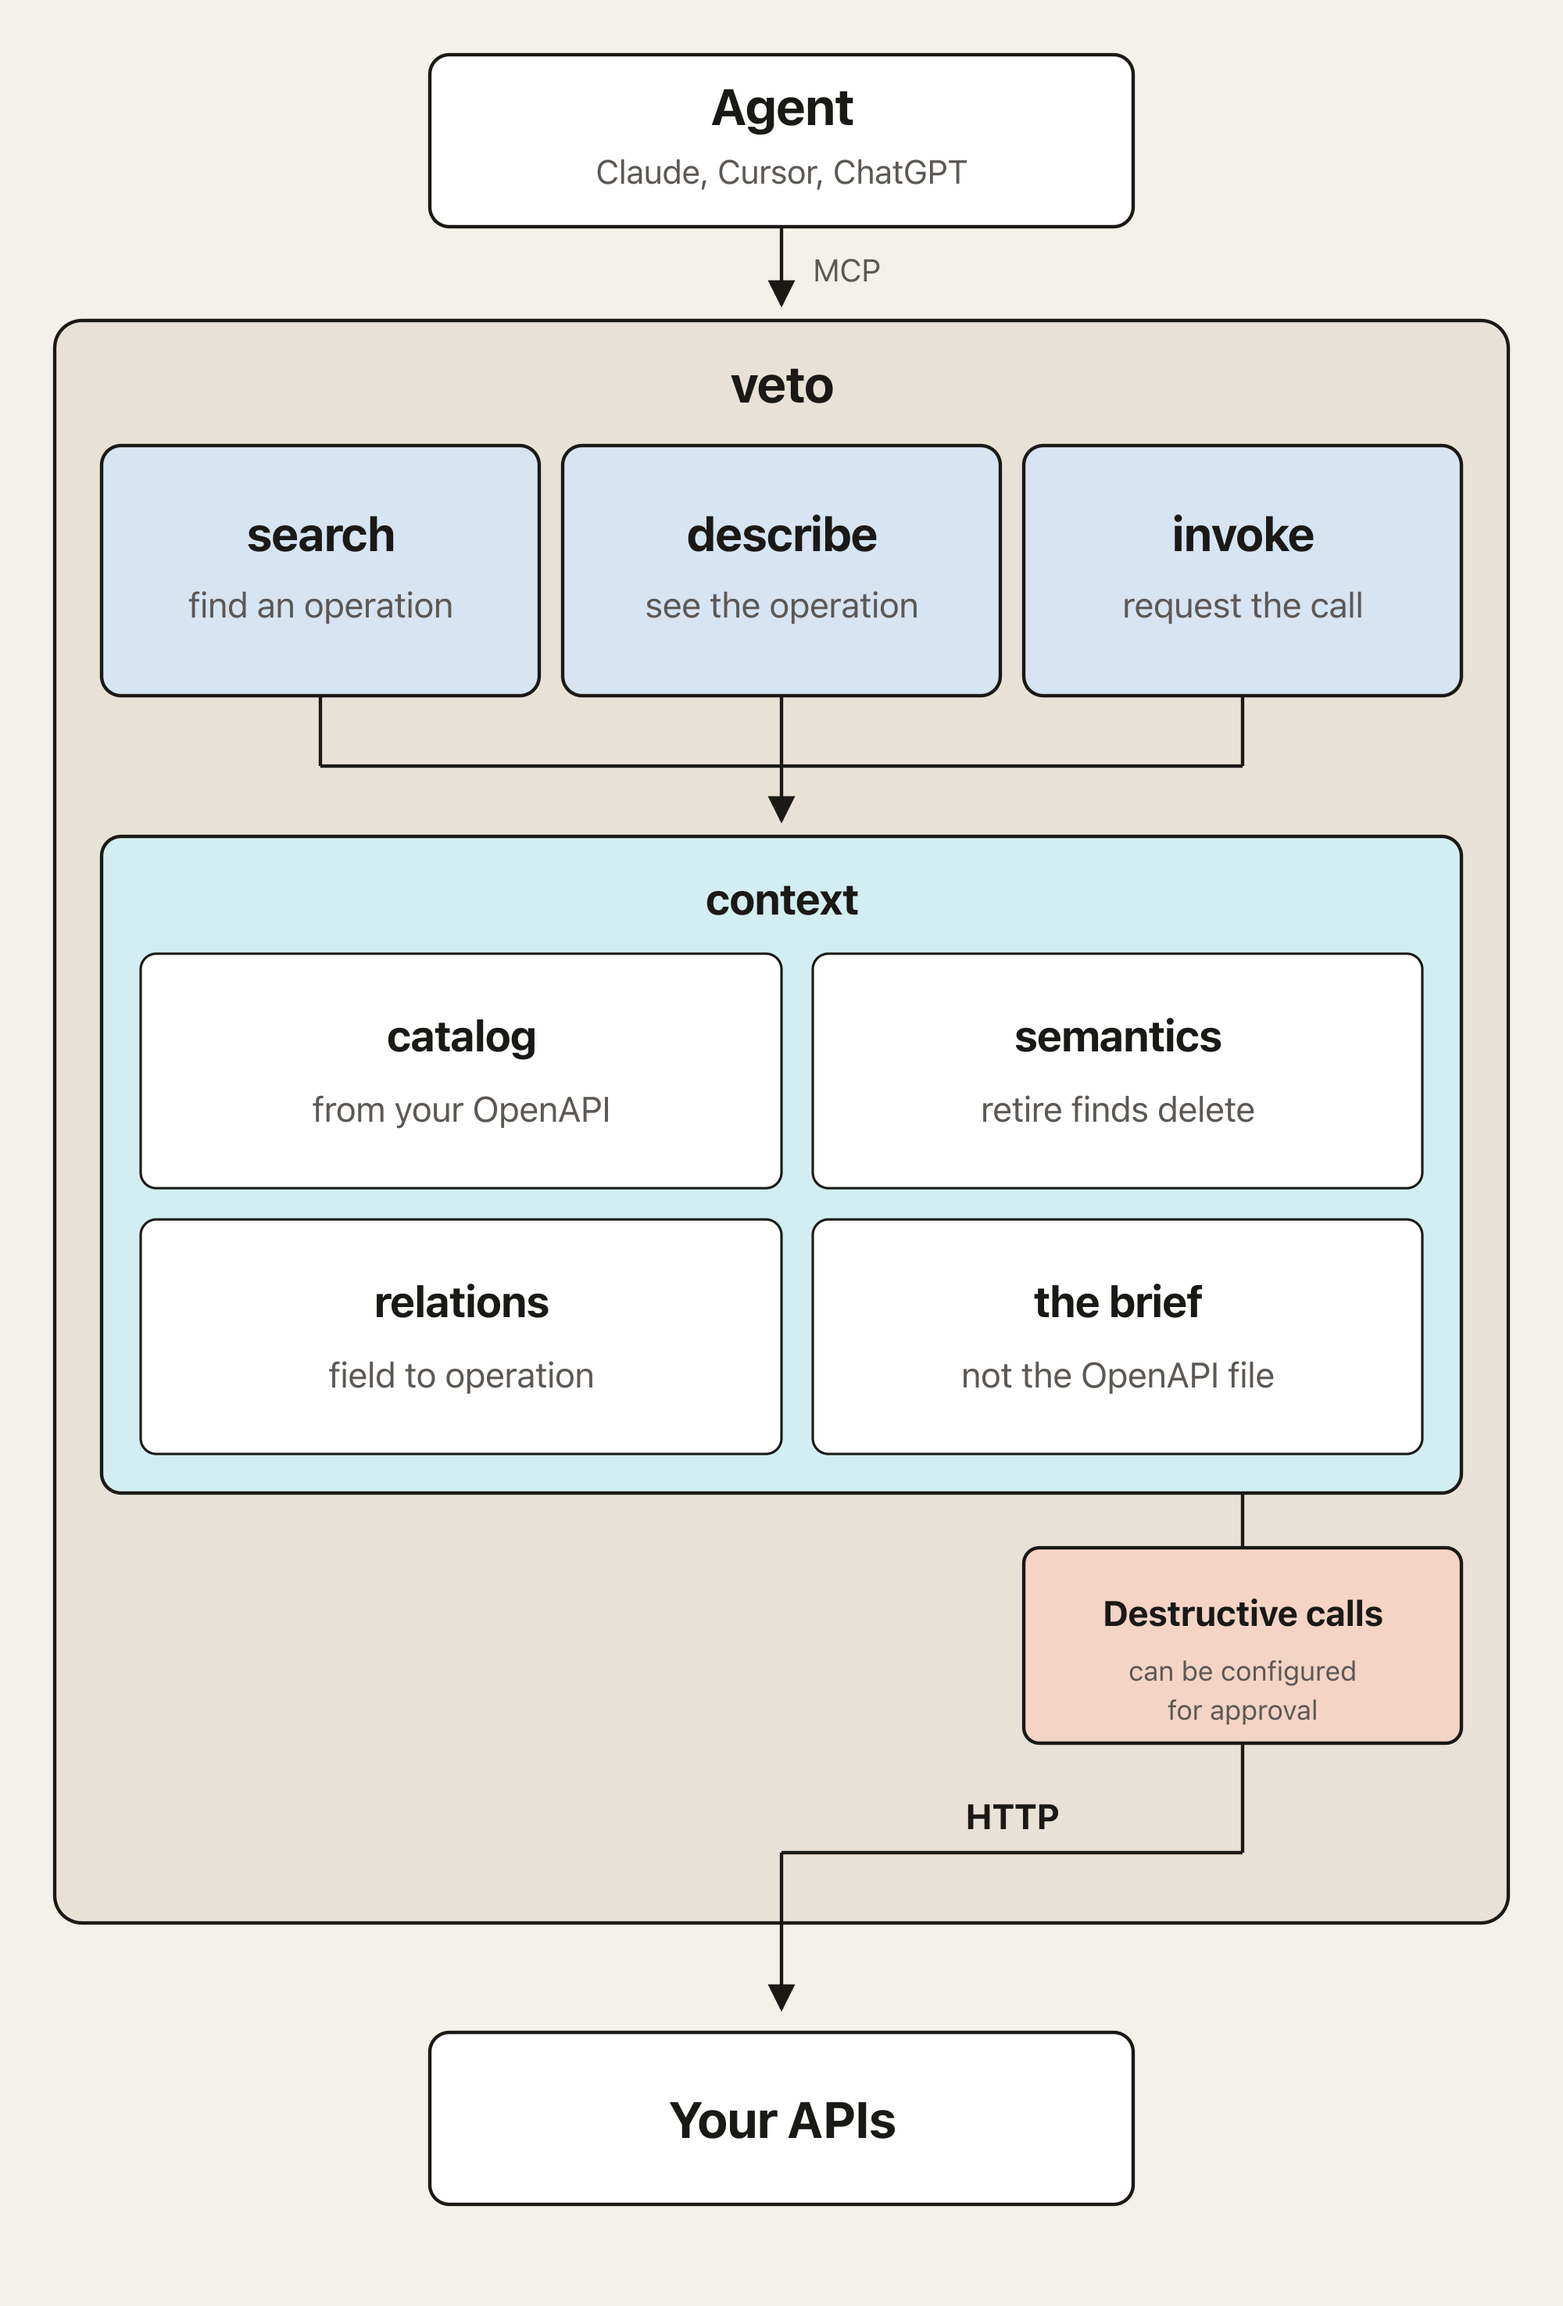
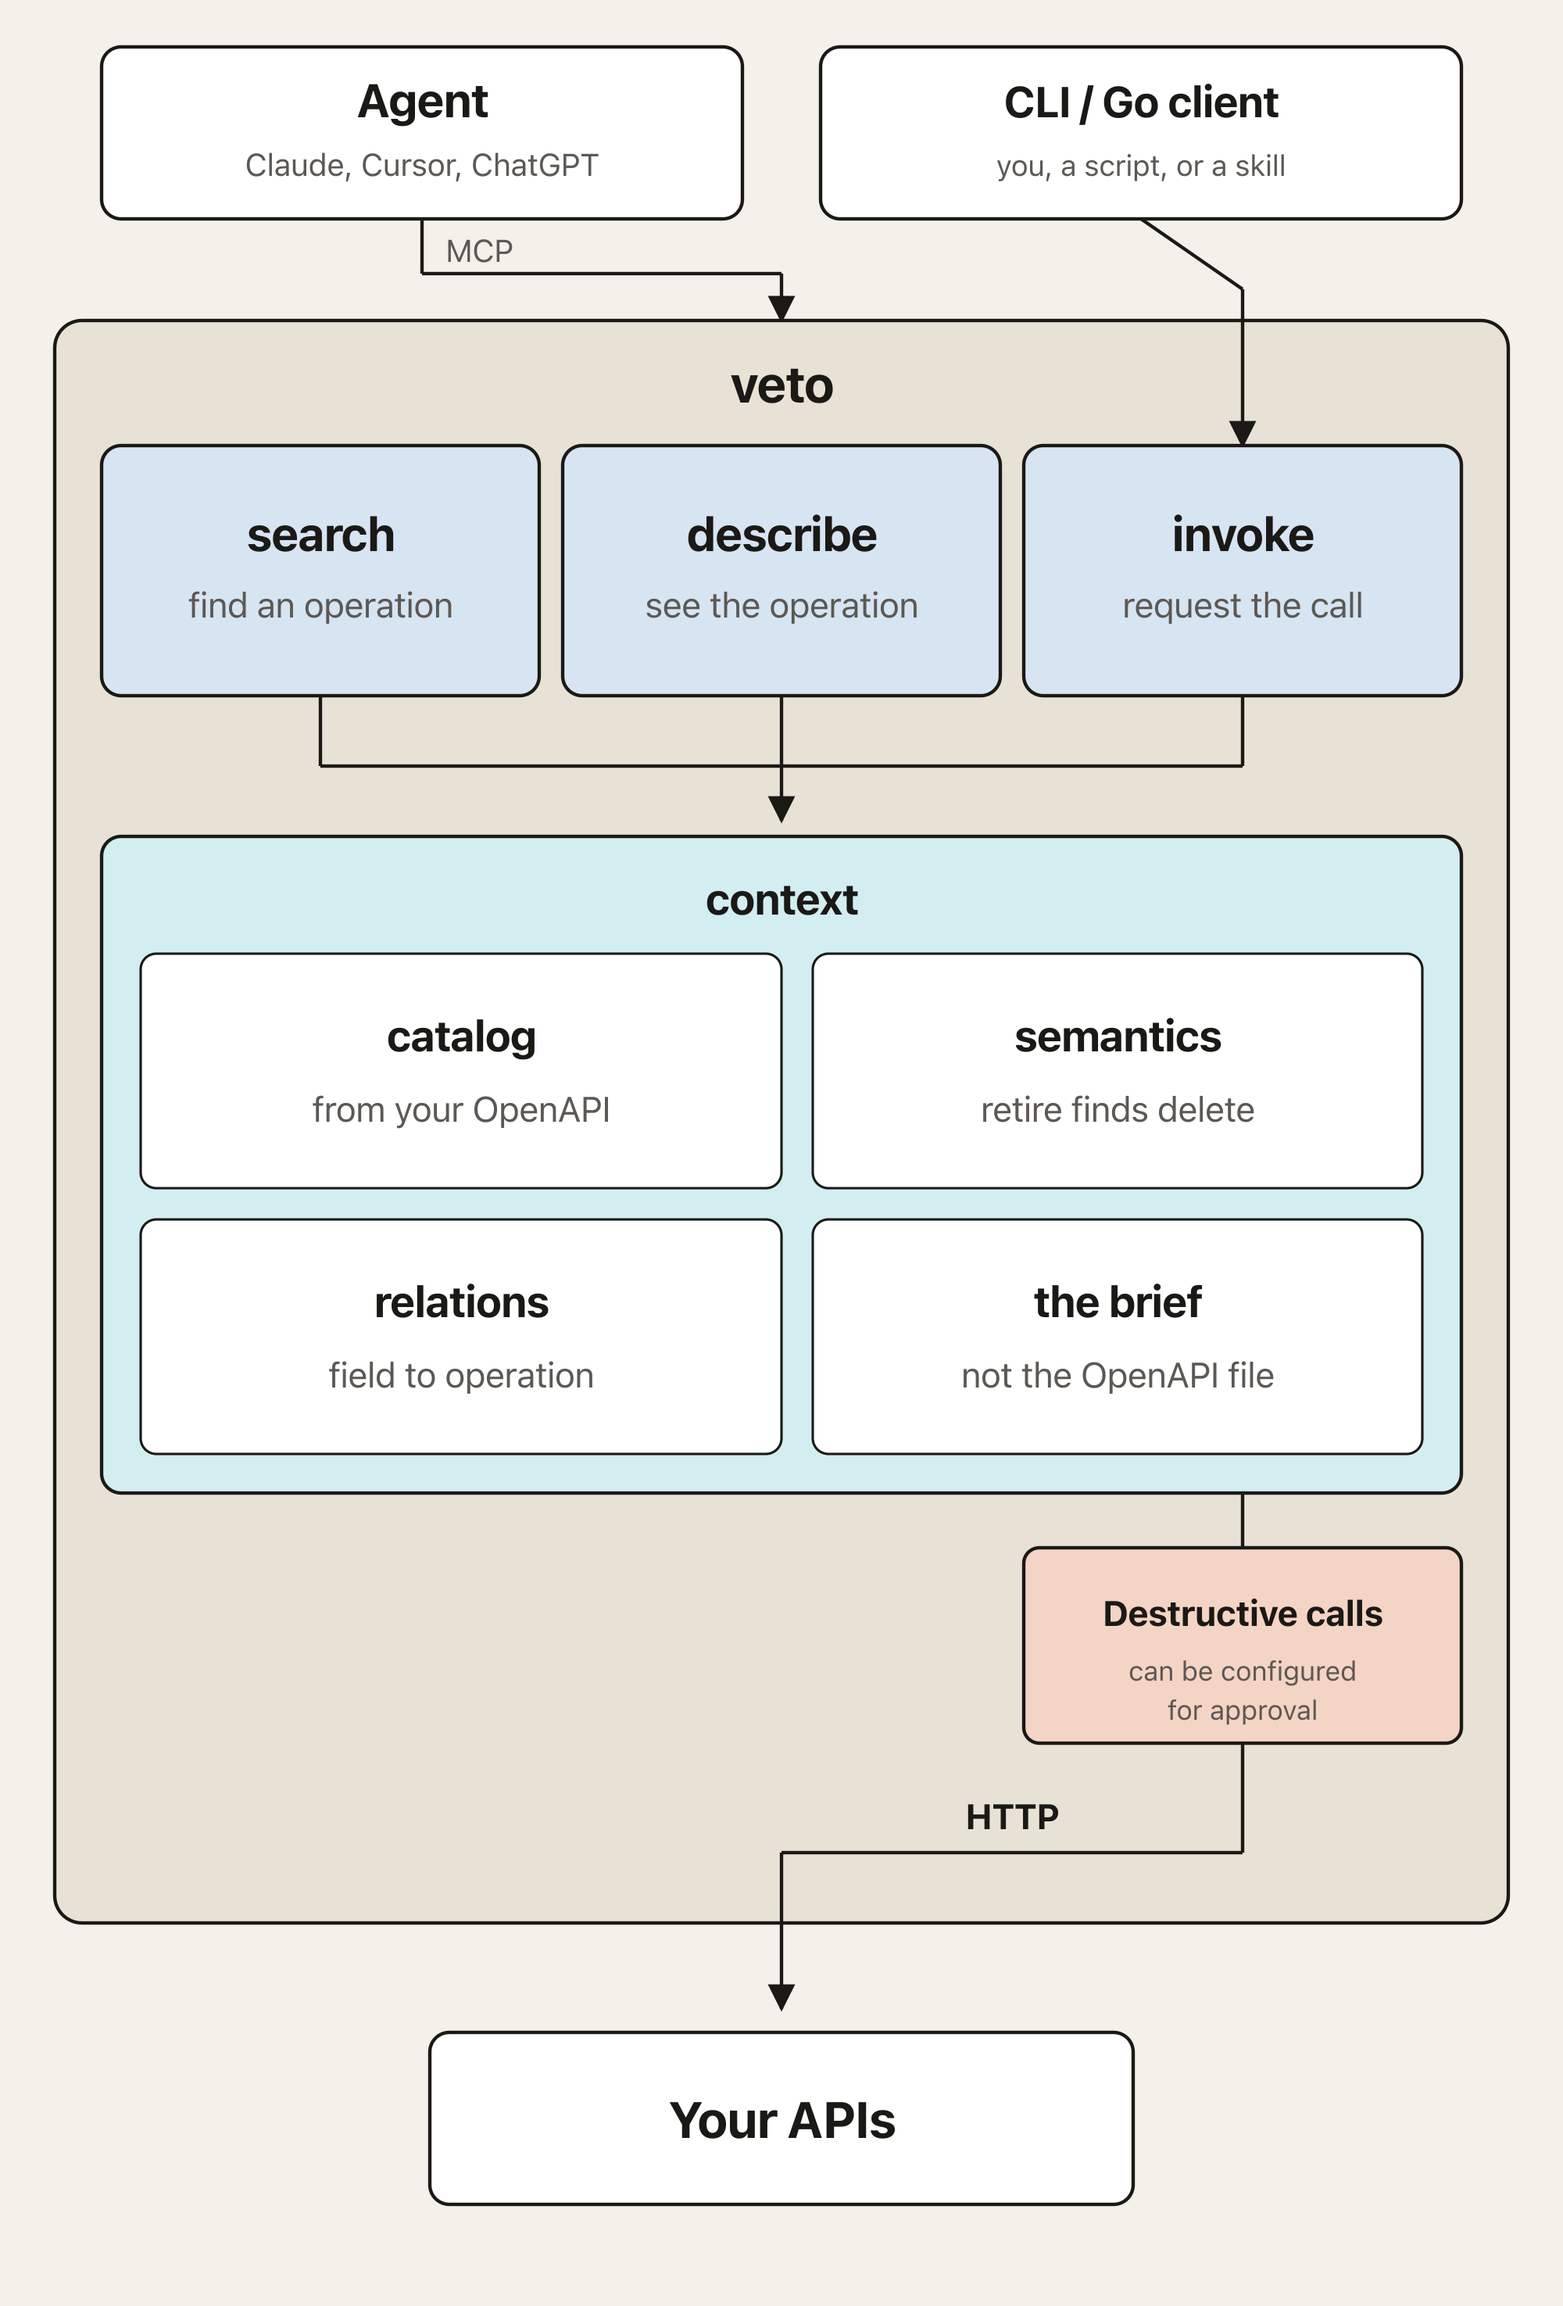
Show the CLI and Go client entering veto at invoke.

Changed region(s): [[0.217, 0.0, 0.806, 0.1559], [0.155, 0.0624, 0.217, 0.0936], [0.775, 0.1559, 0.806, 0.1871]]

diff --git a/README.md b/README.md
@@ -8,7 +8,7 @@ The model may request a call. Veto checks policy, requires approval for a destru
 
 Connect an MCP client, or embed the Go runtime. MCP, the CLI, eval, and a generated Go client share that runtime. Your services stay where they already run.
 
-<img src="docs/veto-runtime.png" width="1280" alt="Claude, Cursor, or ChatGPT talks to veto over MCP. Search, describe, and invoke sit on catalog, semantics, relations, and a short brief that is not the OpenAPI file. Destructive calls can be configured for approval. Then HTTP reaches your APIs.">
+<img src="docs/veto-runtime.png" width="1280" alt="Claude, Cursor, or ChatGPT talks to veto over MCP. A CLI or Go client enters at invoke. Search, describe, and invoke sit on catalog, semantics, relations, and a short brief that is not the OpenAPI file. Destructive calls can be configured for approval. Then HTTP reaches your APIs.">
 
 ```bash
 brew install aiveto/veto/veto
